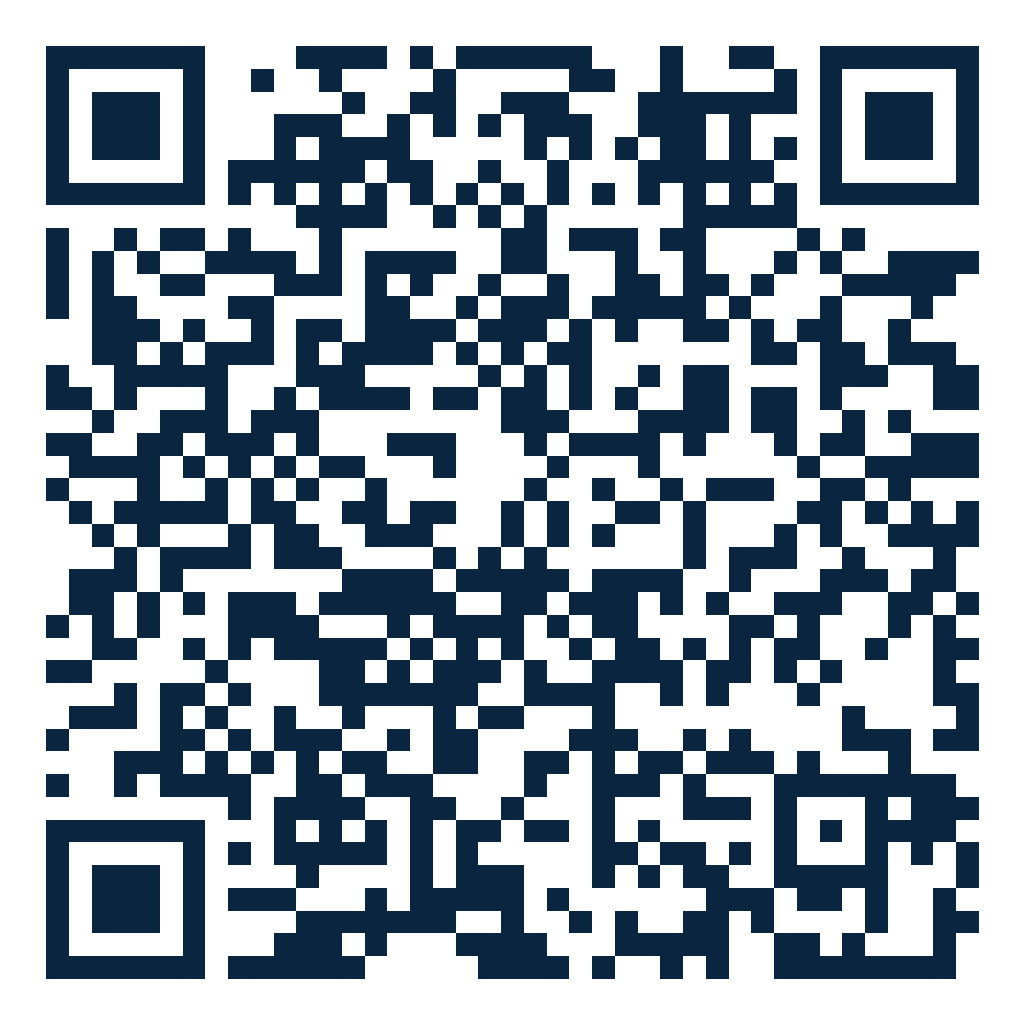
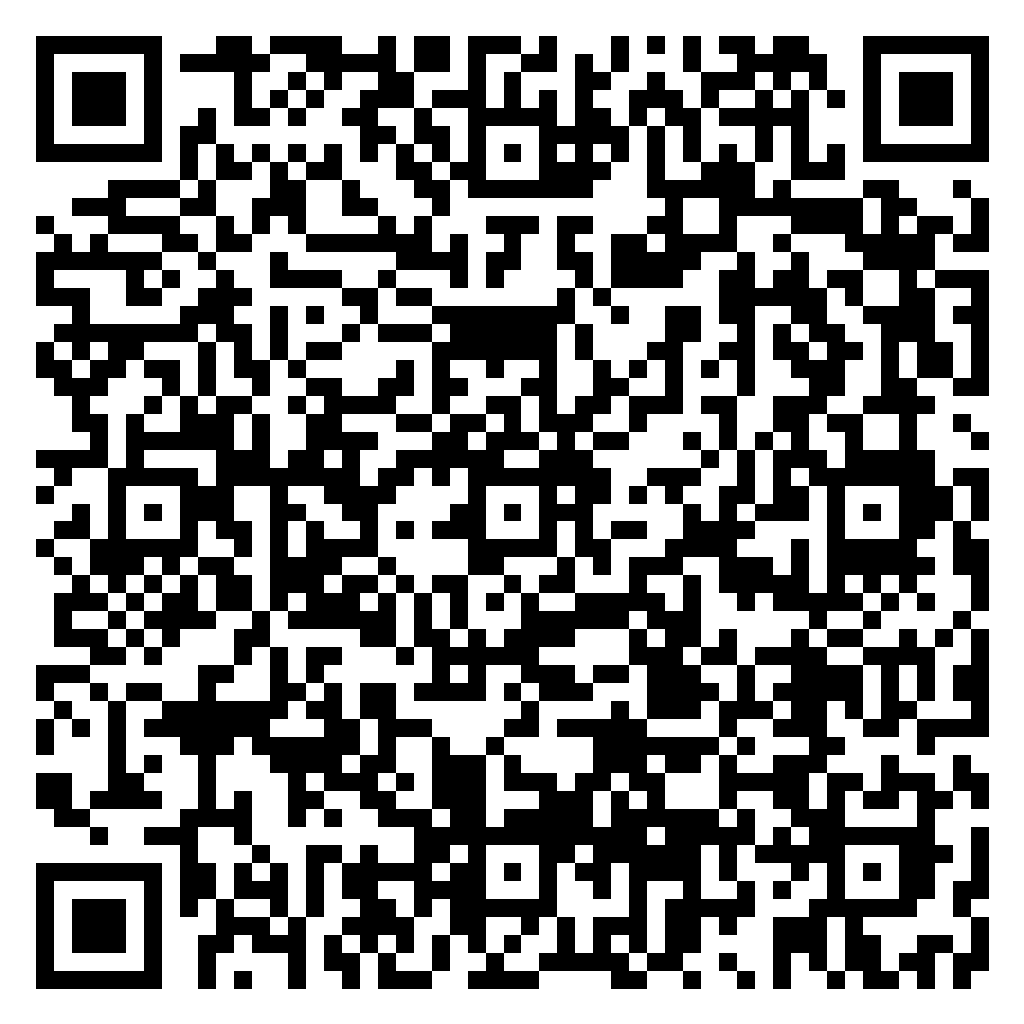
fix(qr): actualizar imagen QR con enlace de descarga directa oficial de KlikPOS Street APK

diff --git a/scripts/publish-release-to-github.js b/scripts/publish-release-to-github.js
@@ -98,7 +98,11 @@ async function main() {
     { name: 'KlikPOS_Lite_Setup.exe', relPath: 'KlikPOS Release/01_KlikPOS_Lite_Desktop/KlikPOS_Lite_Setup.exe' },
     { name: 'KlikPOS_Pro_Setup.exe', relPath: 'KlikPOS Release/02_KlikPOS_Pro_Desktop/KlikPOS_Pro_Setup.exe' },
     { name: 'KlikPOS_Elite_Setup.exe', relPath: 'KlikPOS Release/03_KlikPOS_Elite_Desktop/KlikPOS_Elite_Setup.exe' },
-    { name: 'KlikPOS_Desktop_Full_Setup.exe', relPath: 'KlikPOS Release/03_KlikPOS_Elite_Desktop/KlikPOS_Elite_Setup.exe' }
+    { name: 'KlikPOS_Desktop_Full_Setup.exe', relPath: 'KlikPOS Release/03_KlikPOS_Elite_Desktop/KlikPOS_Elite_Setup.exe' },
+    { name: 'KlikPOS_Street_v3.0.25_Setup.exe', relPath: 'KlikPOS Release/03_KlikPOS_Street_Desktop/KlikPOS_Street_v3.0.25_Setup.exe' },
+    { name: 'KlikPOS_Street_Setup.exe', relPath: 'KlikPOS Release/03_KlikPOS_Street_Desktop/KlikPOS_Street_v3.0.25_Setup.exe' },
+    { name: 'Kliko_Street_Setup.exe', relPath: 'KlikPOS Release/03_KlikPOS_Street_Desktop/KlikPOS_Street_v3.0.25_Setup.exe' },
+    { name: 'Kliko_Street_v3.0.25_Setup.exe', relPath: 'KlikPOS Release/03_KlikPOS_Street_Desktop/KlikPOS_Street_v3.0.25_Setup.exe' }
   ];
 
   for (const win of windowsAssets) {
@@ -112,7 +116,9 @@ async function main() {
   // 3. Subir APKs Android Oficiales desde 'KlikPOS Release'
   const androidAssets = [
     { name: 'Kliko_Street.apk', relPath: 'KlikPOS Release/04_Apps_Moviles_Android/Kliko_Street.apk' },
+    { name: 'Kliko_Street_v3.0.25.apk', relPath: 'KlikPOS Release/04_Apps_Moviles_Android/Kliko_Street_v3.0.25.apk' },
     { name: 'KlikPOS_Street.apk', relPath: 'KlikPOS Release/04_Apps_Moviles_Android/KlikPOS_Street.apk' },
+    { name: 'KlikPOS_Street_v3.0.25.apk', relPath: 'KlikPOS Release/04_Apps_Moviles_Android/Kliko_Street_v3.0.25.apk' },
     { name: 'KlikPOS_Tablet_Standalone_Mesas.apk', relPath: 'KlikPOS Release/04_Apps_Moviles_Android/KlikPOS_Street.apk' },
     { name: 'KlikPOS_Movil.apk', relPath: 'KlikPOS Release/04_Apps_Moviles_Android/KlikPOS_Movil.apk' },
     { name: 'KlikPOS_Movil_Full.apk', relPath: 'KlikPOS Release/04_Apps_Moviles_Android/KlikPOS_Movil.apk' },
